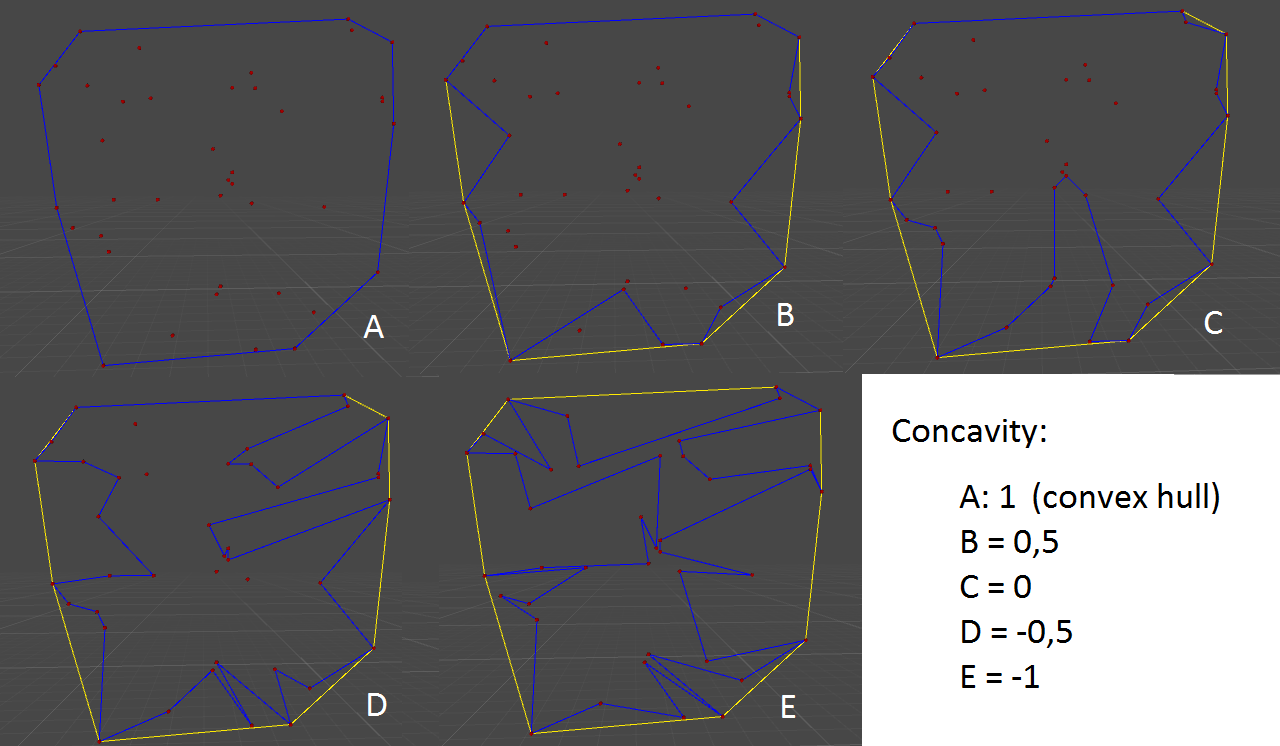
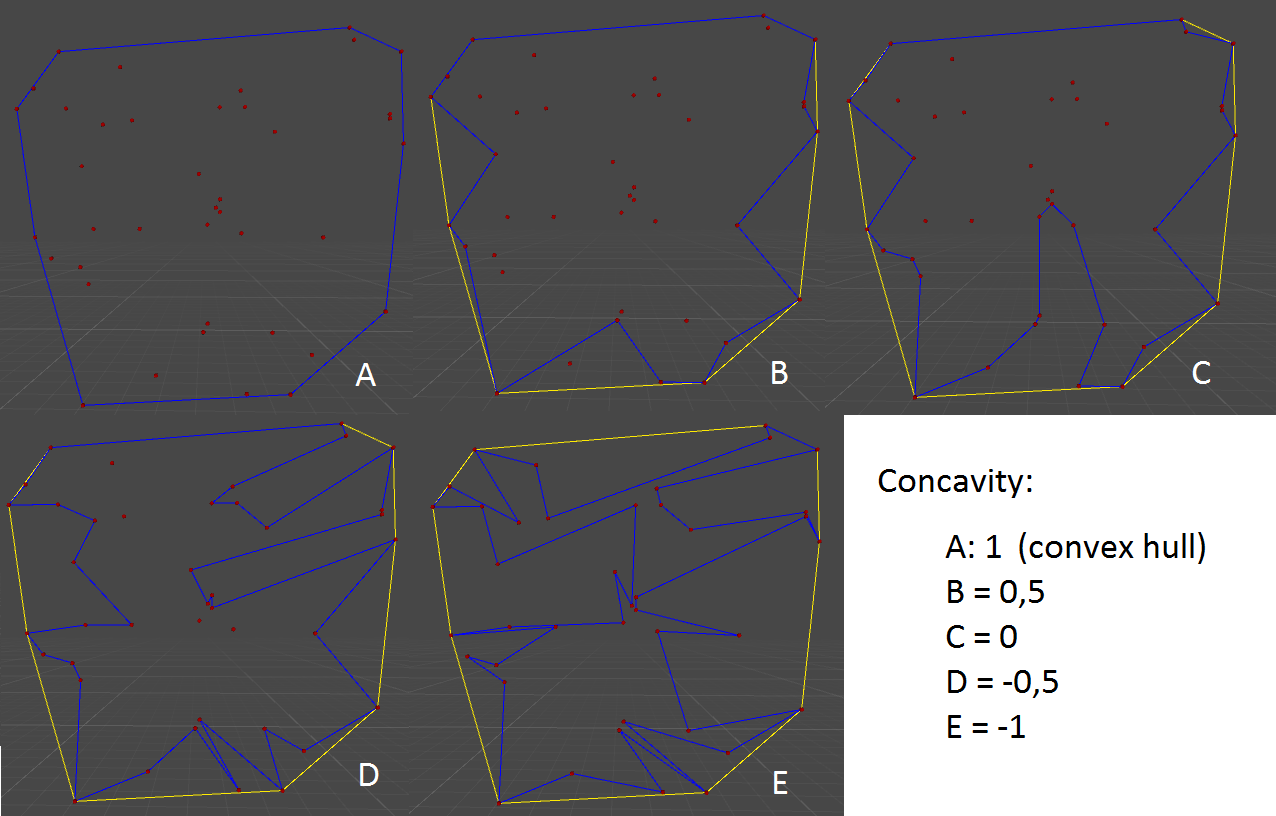
Angle between middlepoints bug corrected

diff --git a/Assets/src/HullFunctions.cs b/Assets/src/HullFunctions.cs
@@ -122,6 +122,8 @@ namespace ConcaveHull {
                                 sumCos = cos1 + cos2;
                                 middle_point = nearbyPoints[count];
                             }
+                        } else {
+                            sumCos = cos1 + cos2;
                         }
                     }
                 }
